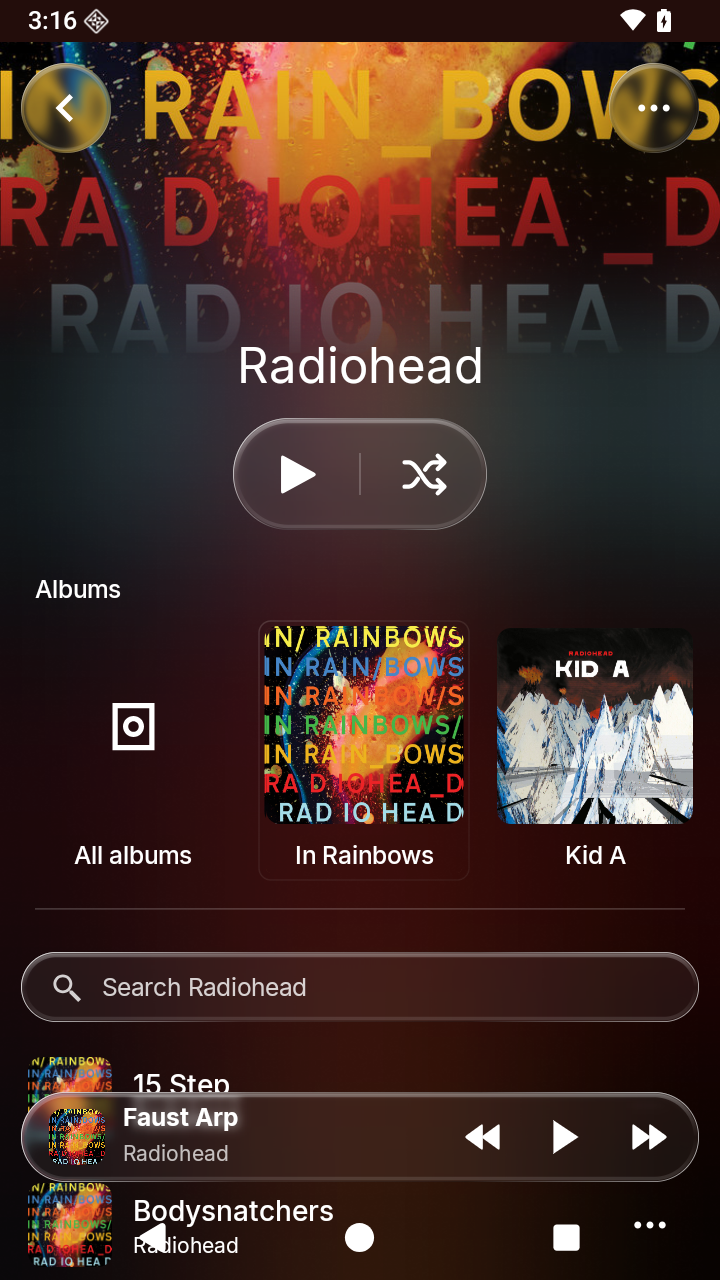
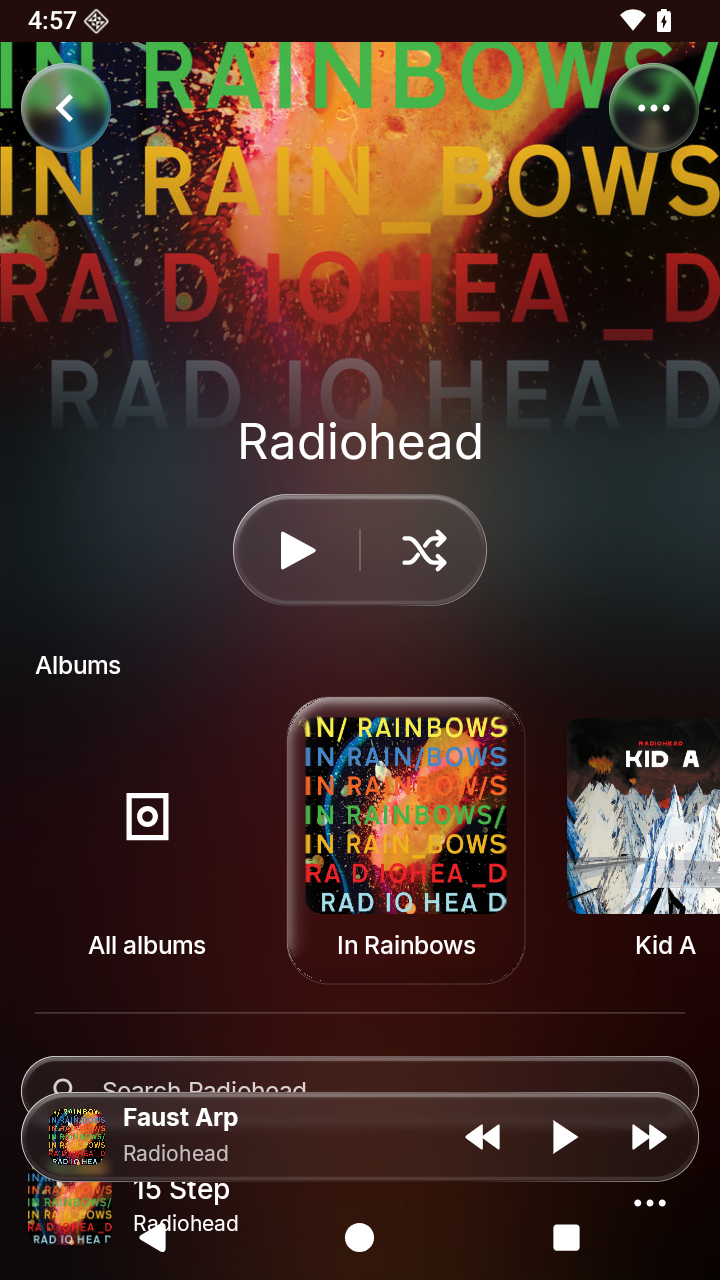
Prepare v0.20.1 and refresh the selection preview

diff --git a/docs/interface.md b/docs/interface.md
@@ -4,9 +4,9 @@ Use the supplied `localica-reference` screenshots for structure: Apple Music nav
 
 ## Shared controls and motion
 
-- Floating controls morph into related frosted menus/panels and return on dismissal: creation, More, sorting, filters, queue and lyric-source selectors. Keep one visible surface through the window handoff. Position stops at its destination; momentum deforms width/height, allowing edge bulge without center overshoot. Popups share the Queue’s neutral frosted material, with light/dark tints. Long-press menus and confirmations ease into view; full settings/editor/artwork pages slide and fade. Keep exit content until its motion finishes, blocking further actions. Use rounded Apple Music-style icons and attributed open-source transport artwork, omit unavailable actions, and leave system pickers/permissions native. Settings categories: Interface, Playback and queues, Library and tags, About/licenses; use icons, summaries and chevrons, with search only at the root.
+- Floating controls morph into related frosted menus/panels and return on dismissal: creation, More, sorting, filters, queue and lyric-source selectors. Keep one visible surface through the window handoff. Position stops at its destination; acceleration and stopping drive a damped width/height deformation with constant projected area, allowing edge bulge without center overshoot. Popups share the Queue’s neutral frosted material, with light/dark tints. Long-press menus and confirmations ease into view; full settings/editor/artwork pages slide and fade. Keep exit content until its motion finishes, blocking further actions. Use rounded Apple Music-style icons and attributed open-source transport artwork, omit unavailable actions, and leave system pickers/permissions native. Settings categories: Interface, Playback and queues, Library and tags, About/licenses; use icons, summaries and chevrons, with search only at the root.
 - Corner tokens: small art 8 dp, cards/inputs 16, menus 20, large art 24, panels 28. Compact shelves/chips use pills; transport uses circles. Uniform icons start at 24 dp; a unified icon/label/surface target is at least 48 dp. Clip press feedback to the control's shape. Artwork and timed lyric taps have no ripple.
-- Sort/settings choices share a moving clear lens with tap and drag control. Selected media sit beneath a shallow, untinted lens: flat/invisible when inactive, rounded at its perimeter when selected. Adjacent selections merge, including narrow diagonal bridges; unselected holes remain clear. Deselecting reverses the effect; partial groups have no lens or checkmark. Switches and slider thumbs also use glass, with shape deformation instead of position overshoot. Long titles pause, scroll and fade at their edges; reduced motion uses ellipsis.
+- Sort/settings choices share a moving clear lens with tap and drag control. Selected media sit beneath a clear, untinted lens: flat/invisible when inactive, rising into a broad rounded edge when selected. Keep text baselines readable and inset album choices within the curve. Adjacent selections merge, including narrow diagonal bridges; unselected holes remain clear. Deselecting reverses the effect; partial groups have no lens or checkmark. Switches and slider thumbs also use glass, with shape deformation instead of position overshoot. Long titles pause, scroll and fade at their edges; reduced motion uses ellipsis.
 - Gestures track the finger through slow drags, reversals and interruptions, then settle by distance/velocity. Keep the original owner until release: sliders, lyrics, reordering, carousels and overflow bars must not also swipe the parent, even at an edge. Short-screen scrolling takes precedence. One gesture changes one surface level.
 - Default motion: surfaces about 400 ms, menus 300 ms, lyrics 350 ms; offer faster/reduced motion. Programmatic scrolling eases to its measured destination without visible overshoot. Keep focus stable, provide accessible/tap alternatives, and accommodate landscape, large fonts and short screens.
 - Browsing/settings stay light, with a pink selected-tab accent and shared neutral gray for secondary text and inactive icons. Interface → Appearance adjusts this gray persistently; reset restores the darker default. Use Inter with compact tracking and a bold mini-player title; Apple’s system font is not bundled. Error/destructive states retain red. Floating pills, mini-player, filter/search bars and circular controls share Liquid Glass: curved refraction, illuminated edges and crisp foregrounds. Presses subtly widen/flatten the surface, rebound on release and brighten the rim; reduced motion retains illumination without deformation. The Queue drawer keeps its denser textured frosted material. Broader themes remain [planned](roadmap.md).
@@ -45,7 +45,7 @@ Tabs are 64 dp high; the mini-player and standalone circular controls are four f
 
 ## Selection and reordering
 
-- Hide bulk controls until a song is held; the action panel slides/fades in and out over 220 ms, matching selection deselection. Select it and show the shared action panel above the mini-player, retaining tabs; collection holds instead open actions including Select all songs. Normal collection taps navigate. Selected items have rounded outlines; partially selected collections have dashed outlines, never checkboxes.
+- Hide bulk controls until a song is held; the action panel slides/fades in and out over 220 ms, matching selection deselection. Select it and show the shared action panel above the mini-player, retaining tabs; collection holds instead open actions including Select all songs. Normal collection taps navigate. Use the shared connected selection lenses; partial collections retain accessible selection state without a visual pane or checkbox.
 - Retain source occurrence identities and selection order across routes, tabs, queries, sorting, rotation and backgrounding. Select-all appends in collection order; reselect appends last. Preserve distinct occurrences for playlists/queues and deduplicate files for editing. Fresh sessions start empty.
 - Panel: All, Range, count, actions and explicit close; wrap/scroll within a bounded height. Close, mutable-list Back or successful actions exit. Cancel/failure/empty selection retains the mode; collapsing the panel retains selection. Remove-from-source requires one editable source. No separate selection-basket screen. Playlist chooser marks existing membership accessibly while allowing duplicates.
 - In a complete, manual, unfiltered queue/playlist, hold-drag moves the held occurrence or selected occurrences from that source, preserving their source order even when nonconsecutive. Cross-source selections and sorted/filtered views cannot reorder.

diff --git a/docs/structure.md b/docs/structure.md
@@ -43,5 +43,5 @@ Use persisted Storage Access Framework tree grants without broad storage permiss
 - A replaceable cover provider uses a bounded cache, including missing-cover results, and cancellable serialized reads. Choose collection covers in stable identity order; size decodes to their display. Rescans/edits invalidate artwork and lyric caches. No scraping. Read cached covers synchronously for the first frame, retaining smaller same-identity covers while larger decodes load. A recycled row never retains another identity's image; the player retains its previous completed artwork/palette until the next pair is ready.
 - One player expansion progress controls persistent artwork/title/transport geometry and masks. Scale fixed-size glyphs; do not step font sizes. Prepare and cache bounded current/neighbor artwork bundles, including soft cover edges, off Main. Expansion shares one corner geometry between clipping, refraction and rims; older Android blends prepared blur endpoints without per-frame bitmap work. Blend cover and color continuation together, flattening the displayed composite only when interrupted; reuse prepared textures during gestures. Scroll toward continuously measured destinations to avoid overshoot/correction passes.
 - Keep gesture ownership until release. Artwork has diagonal priority over the parent’s clearly vertical recognizer. Pinch transitions retain a bounded set of visible source drawings until release so virtualization cannot erase a reversed preview. Drag-stack cards use one display-frame update and bounded absolute positions; apply drawing-layer translations without per-frame content recomposition/measurement. Edge scrolling uses elapsed frame time. Keep stack, cancel target and list clipping in separate foreground layers.
-- The theme owns modal lifetimes, preserving caller state/locals through exit. Restore caller locals before creating each window so its view/focus owner stays correct; nested windows sample the completed parent panel. Measure glass from foreground content, then fit its padded backdrop independently.
-- Shared Liquid Glass controls and the frosted Queue drawer filter only their backdrops. Separate recordings of browsing content, panel material, lists, player and lyric backgrounds prevent sampling cycles; foreground icons/text stay crisp except inside explicitly composite selection lenses. Connected media lenses record their content before adding a shallow perimeter distortion; the optional navbar overlay records the finished bar and labels, excluding the overlay itself. Modal windows alone may sample the complete screen, aligned through global coordinates; inline lenses use recordings that exclude themselves. Keep composed backings within their viewport. Glass uses padded AGSL rounded-surface refraction on Android 13+ and edge lighting on older versions. Backdrop blur is live on Android 12+; Android 8–11 prepare shared, cancellable snapshots after scene changes and settled scrolling, never on each gesture frame. Modern adaptive tint evaluates local background brightness in the shader without GPU readback; older versions reuse their settled snapshots. Glass blur strength is independent of the denser drawer material; tint stays below foreground content and floating shadows exclude the transparent interior. Guard unrecorded/released layers before readback. Graphics remain replaceable and independent of core data/playback.
+- The theme owns modal lifetimes, preserving caller state/locals through exit. Restore caller locals before creating each window so its view/focus owner stays correct; nested windows sample the completed parent panel. Measure glass from foreground content, then fit its padded backdrop independently. Morphs use one travel clock with a damped response to velocity changes. Uniformly scale the fixed menu layout into its moving viewport; settled menus stop drawing the transitional lens.
+- Shared Liquid Glass controls and the frosted Queue drawer filter only their backdrops. Separate recordings of browsing content, panel material, lists, player and lyric backgrounds prevent sampling cycles; foreground icons/text stay crisp except inside explicitly composite selection lenses. Connected media lenses record content over a separate backing and use a cached distance field around the joined boundary; progress updates drawing directly and the center stays clear. The optional navbar overlay records the finished bar and labels, excluding the overlay itself. Modal windows alone may sample the complete screen, aligned through global coordinates; inline lenses use recordings that exclude themselves. Keep composed backings within their viewport. Glass uses padded AGSL rounded-surface refraction on Android 13+ and cached edge lighting on older versions. Backdrop blur is live on Android 12+; Android 8–11 prepare shared, cancellable snapshots after scene changes and settled scrolling, never on each gesture frame. Modern adaptive tint evaluates local background brightness in the shader without GPU readback; older versions reuse their settled snapshots. Glass blur strength is independent of the denser drawer material; tint stays below foreground content and floating shadows exclude the transparent interior. Guard unrecorded/released layers before readback. Graphics remain replaceable and independent of core data/playback.

diff --git a/.github/RELEASE_NOTES.md b/.github/RELEASE_NOTES.md
@@ -1,21 +1,19 @@
-<!-- Release: v0.20.0 -->
+<!-- Release: v0.20.1 -->
 
 Development APK for Android 8 or newer. Signed with the project development key; uses a separate `.debug` application ID. Production distribution signing is not configured.
 
 ## Changes
 
-- More visible player perspective, smoothly varying artwork edges, cleaner double-triangle transport, and firmer gesture ownership.
-- Continuous frosted menu transitions, shape-based bounce, magnetic navigation with haptics, three selector styles and adjustable adaptive contrast.
-- Connected clear selection lenses, reversible linear pinch layouts, glass settings/sorting choices and a permission-aware artwork chooser.
+- Rounded, connected selection glass with visible depth, continuous joins and readable album labels; removes oversized circular artifacts.
+- Menu squash/stretch responds to motion and stopping, with fewer redundant rendering passes and cached selection geometry.
 
 ## Resolved issues
 
-- https://github.com/anastaci1a/localica/issues/99 - Glass transitions, navigation feedback and material consistency.
-- https://github.com/anastaci1a/localica/issues/100 - Player carousel, controls and gestures.
-- https://github.com/anastaci1a/localica/issues/101 - Connected selections, reversible zoom and collection/editor polish.
+- https://github.com/anastaci1a/localica/issues/102 - Connected selection geometry, depth and animation.
+- https://github.com/anastaci1a/localica/issues/103 - Menu deformation and rendering efficiency.
 
 ## Install
 
-1. Download `localica-v0.20.0-debug.apk` from **Assets** below (Android 8+).
+1. Download `localica-v0.20.1-debug.apk` from **Assets** below (Android 8+).
 2. Open the APK and allow installation from your browser or file manager if prompted. It updates the existing development app.
 3. First use: open **More → Scan music**, choose **Folders to scan**, then **Scan now**.

diff --git a/README.md b/README.md
@@ -21,4 +21,4 @@ Requires **Android 8+**. Supports MP3 and AAC/M4A, plus WAV, FLAC, Ogg, and Opus
   <p><img src="docs/images/navigation.gif" width="360" alt="Navigating the Library, album lists, player, and Queue drawer in Localica"></p>
 </details>
 
-Previews captured in v0.20.0 using silent demo files. Album artwork and track names: Radiohead’s [In Rainbows](https://radiohead.bandcamp.com/album/in-rainbows) and [Kid A](https://radiohead.bandcamp.com/album/kid-a). Artwork belongs to its respective rights holders and is not included in the app.
+Previews captured in v0.20.0–v0.20.1 using silent demo files. Album artwork and track names: Radiohead’s [In Rainbows](https://radiohead.bandcamp.com/album/in-rainbows) and [Kid A](https://radiohead.bandcamp.com/album/kid-a). Artwork belongs to its respective rights holders and is not included in the app.
